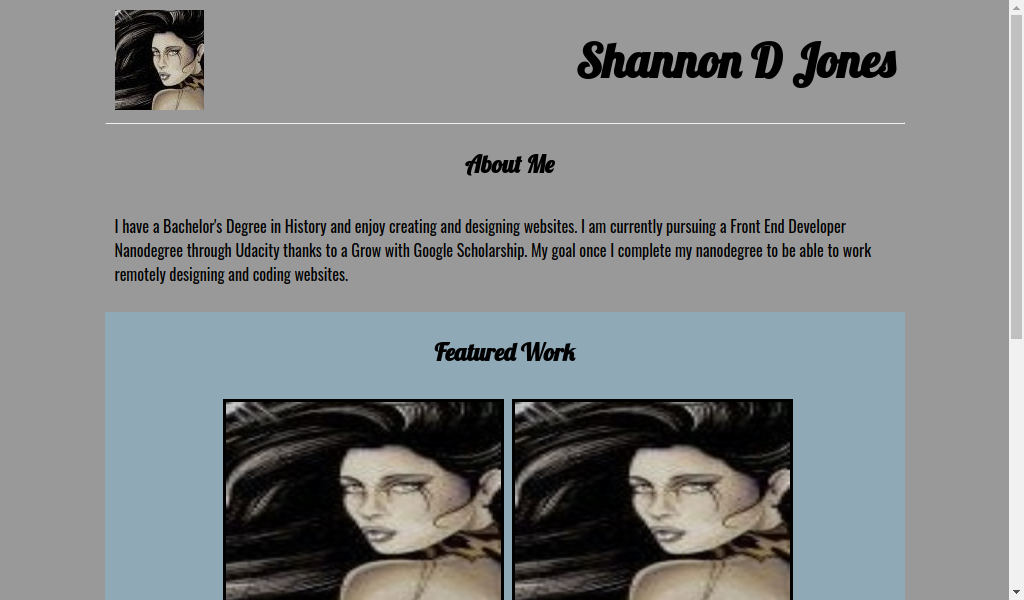
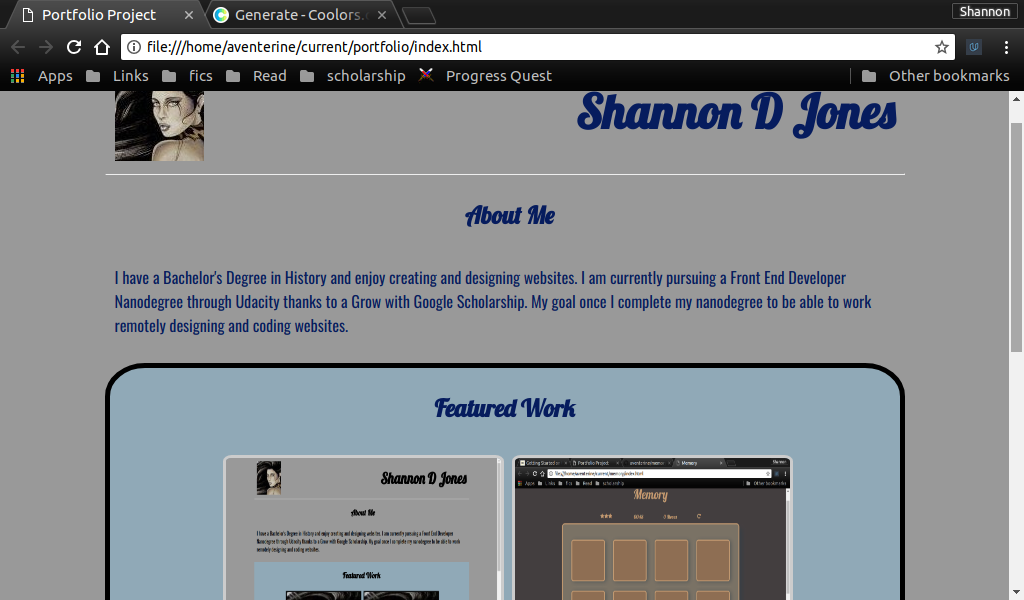
Added links to completed projects and tweaked styling.

diff --git a/index.html b/index.html
@@ -22,33 +22,33 @@
             <article id="work">
                 <h2 class="title">Featured Work</h2>
                 <section id="portfolio" class="projects">
-                    <a href="https://github.com/aventerine/portfolio"><img class="projects-img" src="images/portfolio.png" alt="portfolio"></a>
-                    <h3 class="project-name">Portfolio</h3>
+                    <img class="projects-img" src="images/portfolio.png" alt="portfolio">
+                    <h3><a href="https://github.com/aventerine/portfolio">Portfolio</a></h3>
                 </section>
                 <section id="memory" class="projects">
-                    <a href="https://github.com/aventerine/memory"><img class="projects-img" src="images/memory.png" alt="memory game"></a>
-                    <h3>Memory Game</h3>
+                    <img class="projects-img" src="images/memory.png" alt="memory game">
+                    <h3><a href="https://github.com/aventerine/memory">Memory Game</a></h3>
                 </section>
                 <section id="arcade" class="projects">
-                    <a href="https://github.com/aventerine/Grow-with-Google-Scholarship/tree/master/nanodegree/projects/project_01"><img class="projects-img" src="images/logo_2.jpg" alt="clasic arcade game"></a>
-                    <h3>Classic Arcade Game</h3>
+                    <img class="projects-img" src="images/logo_2.jpg" alt="clasic arcade game">
+                    <h3><a href="#">Classic Arcade Game</a></h3>
                 </section>
                 <section id="reader" class="projects">
-                    <a href="https://github.com/aventerine/Grow-with-Google-Scholarship/tree/master/nanodegree/projects/project_01"><img class="projects-img" src="images/logo_2.jpg" alt="feed reader"></a>
-                    <h3>Feed Reader</h3>
+                    <img class="projects-img" src="images/logo_2.jpg" alt="feed reader">
+                    <h3><a href="#">Feed Reader</a></h3>
                 </section> 
-                <!--<section id="restuarant" class="projects">
-                    <a href="https://github.com/aventerine/Grow-with-Google-Scholarship/tree/master/nanodegree/projects/project_01"><img class="projects-img" src="images/logo_2.jpg" alt="restuarant review"></a>
-                    <h3>Restuarant Review App - Stage 1</h3>
+                <section id="restuarant" class="projects">
+                    <img class="projects-img" src="images/logo_2.jpg" alt="restuarant review">
+                    <h3><a href="#">Restuarant Review App - Stage 1</a></h3>
                 </section>
                 <section id="book" class="projects">
-                    <a href="https://github.com/aventerine/Grow-with-Google-Scholarship/tree/master/nanodegree/projects/project_01"><img class="projects-img" src="images/logo_2.jpg" alt="book tracking"></a>
-                    <h3>Book Tracking app</h3>
+                    <img class="projects-img" src="images/logo_2.jpg" alt="book tracking">
+                    <h3><a href="#">Book Tracking app</a></h3>
                 </section>          
                 <section id="map" class="projects">
-                    <a href="https://github.com/aventerine/Grow-with-Google-Scholarship/tree/master/nanodegree/projects/project_01"><img class="projects-img" src="images/logo_2.jpg" alt="neighborhood map"></a>
-                    <h3>Neighborhood Map</h3>
-                </section>-->
+                    <img class="projects-img" src="images/logo_2.jpg" alt="neighborhood map">
+                    <h3><a href="#">Neighborhood Map</a></h3>
+                </section>
             </article>
         </div>
         <hr>

diff --git a/css/main.css b/css/main.css
@@ -5,6 +5,7 @@ html {
     width: 100%;
     height: 100%;
     background-color: #999;
+    color: #061c5e;
 }
 
 #logo {
@@ -41,12 +42,15 @@ p {
     background-color: #90a9b7;
     text-align: center;
     justify-content: center;
+    border: 5px solid #000;
+    border-radius: 5%;
 }
 
 .projects-img {
     width: 275px;
     height: 200px;
-    border: 3px solid #000;
+    border: 3px solid #ccc;
+    border-radius: 3%;
 }
 
 .projects {
